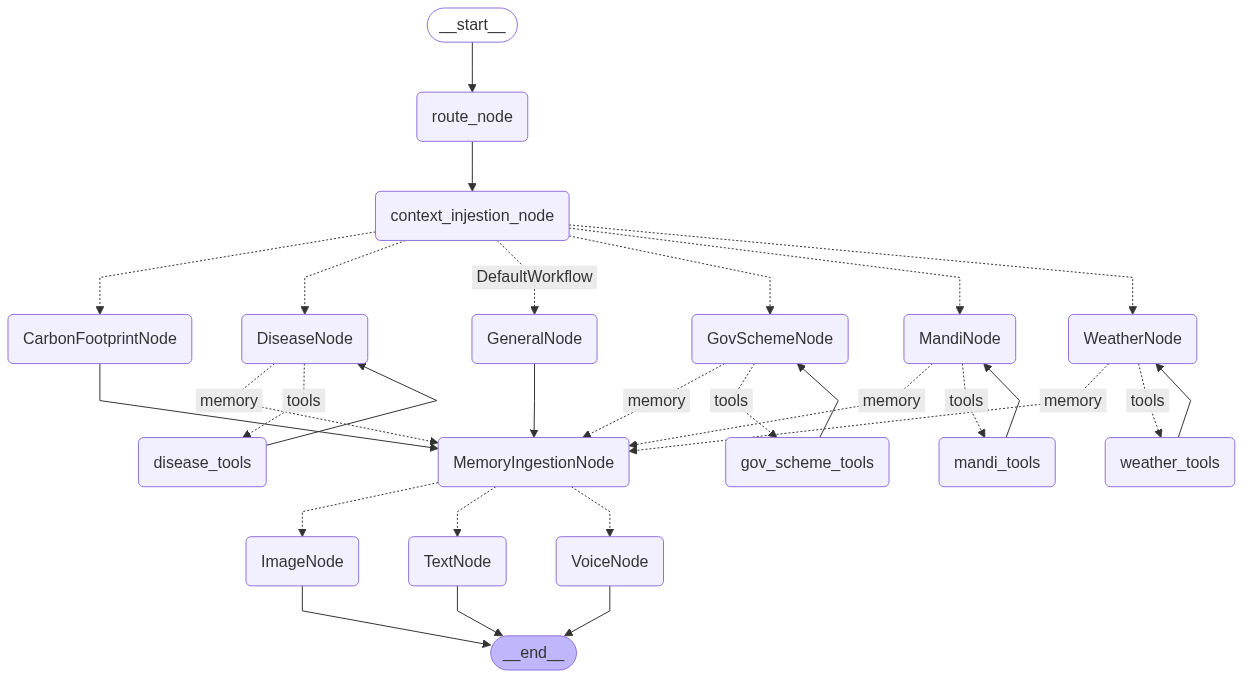
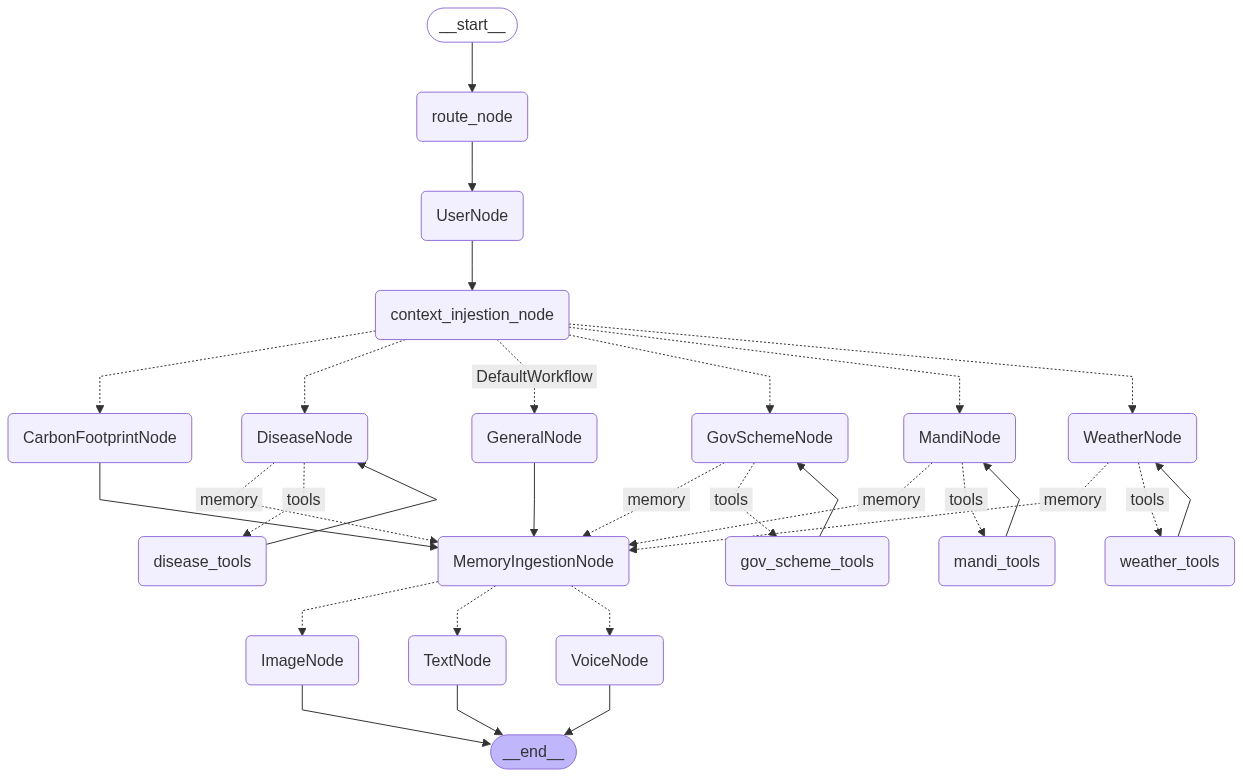
database updated

diff --git a/src/ai_component/graph/nodes.py b/src/ai_component/graph/nodes.py
@@ -4,10 +4,8 @@ sys.path.append(os.path.join(os.path.dirname(__file__), '..', '..', '..', '..'))
 
 import io
 import wave
-import struct
 import base64
 import asyncio
-import tempfile
 from cartesia import Cartesia
 from datetime import datetime
 from src.ai_component.graph.utils.chains import async_router_chain
@@ -21,8 +19,10 @@ from src.ai_component.tools.gov_scheme_tool import gov_scheme_tool
 from src.ai_component.tools.weather_tool import weather_forecast_tool, weather_report_tool
 from src.ai_component.tools.mandi_report_tool import mandi_report_tool
 from src.ai_component.modules.memory.memory_manager import memory_manager
+from src.ai_component.modules.memory.vector_store import memory
 from src.ai_component.logger import logging
 from src.ai_component.exception import CustomException
+from Database.database import user_db
 from langchain_core.messages import HumanMessage, AIMessage, ToolMessage
 from langchain_core.prompts import PromptTemplate
 from dotenv import load_dotenv
@@ -61,6 +61,46 @@ async def route_node(state: AICompanionState) -> dict:
     except CustomException as e:
         logging.error(f"Error in route_node: {e}")
         raise CustomException(e, sys) from e
+
+async def UserNode(state: AICompanionState) -> dict:
+    """
+    ust check user and store their data if collection is new.
+    """
+    try:
+        logging.info("Calling Simple User Node")
+        
+        user_unique_name = state['collection_name']
+        if not user_unique_name:
+            return {"messages": state["messages"], "error": "No user provided"}
+        
+        if not user_db.user_exists(user_unique_name):  ## check if user exists in database
+            return {"messages": state["messages"], "error": "User not found"}
+        user_data = user_db.get_user_by_unique_name(user_unique_name)  ## get user data
+        if not user_data:
+            return {"messages": state["messages"], "error": "Could not retrieve user data"}
+        
+        collection_created = memory.create_collection(collection_name=user_unique_name) ## create collection name
+        user_info = f"""
+        User: {user_data.name} ({user_data.unique_name})
+        Age: {user_data.age}
+        Location: {user_data.city or ''}, {user_data.district}, {user_data.state}, {user_data.country}
+        Address: {user_data.resident or 'Not provided'}
+        """.strip()
+        
+        memory.ingest_data(
+            collection_name=user_unique_name,
+            data=user_info,
+            additional_metadata={"type": "user_profile", "user_id": user_data.id}
+        )
+        logging.info(f"User data stored for {user_unique_name}")
+        return {}
+    except CustomException as e:
+        logging.error(f"Error in user node : {str(e)}")
+        raise CustomException(e, sys) from e
+    except Exception as e:
+        logging.error(f"Error in SimpleUserNode: {str(e)}")
+        return {"messages": state["messages"], "error": str(e)}
+
 
 async def context_injestion_node(state: AICompanionState) -> dict:
     """

diff --git a/src/ai_component/graph/graph.py b/src/ai_component/graph/graph.py
@@ -13,7 +13,7 @@ from src.ai_component.tools.mandi_report_tool import mandi_report_tool
 from src.ai_component.tools.weather_tool import weather_forecast_tool, weather_report_tool
 from src.ai_component.tools.gov_scheme_tool import gov_scheme_tool
 from src.ai_component.graph.nodes import (
-    route_node,
+    route_node, UserNode,
     context_injestion_node,MemoryIngestionNode,
     GeneralNode,DiseaseNode,WeatherNode,MandiNode,GovSchemeNode,CarbonFootprintNode,
     ImageNode, VoiceNode , TextNode
@@ -48,6 +48,7 @@ def create_async_workflow_graph():
     
     # Add nodes
     graph_builder.add_node("route_node", route_node)
+    graph_builder.add_node("UserNode", UserNode)
     graph_builder.add_node("context_injestion_node", context_injestion_node)
     graph_builder.add_node("GeneralNode", GeneralNode)
     graph_builder.add_node("DiseaseNode", DiseaseNode)
@@ -68,7 +69,8 @@ def create_async_workflow_graph():
 
     # Adding edges
     graph_builder.add_edge(START, "route_node")
-    graph_builder.add_edge("route_node", "context_injestion_node")
+    graph_builder.add_edge("route_node", "UserNode")
+    graph_builder.add_edge("UserNode", "context_injestion_node")
     
     graph_builder.add_conditional_edges(
         "context_injestion_node", 
@@ -179,7 +181,7 @@ async def process_query_async(
     """
     initial_state = {
         "messages": [{"role": "user", "content": query}],
-        "collection_name": "vishu",
+        "collection_name": "alice123",
         "current_activity": "",
         "workflow": workflow
     }
@@ -198,7 +200,7 @@ async def process_query_async(
 if __name__ == "__main__":
     async def test_async_execution():
         # Simple test
-        query = "Can you give me the forecast of the Wheat price in Uttar Pradesh India maarket of next 5 days"
+        query = "Hey, hi how are you?"
         result = await process_query_async(query)
         for msg in reversed(result["messages"]):
             if hasattr(msg, 'content') and msg.content:
